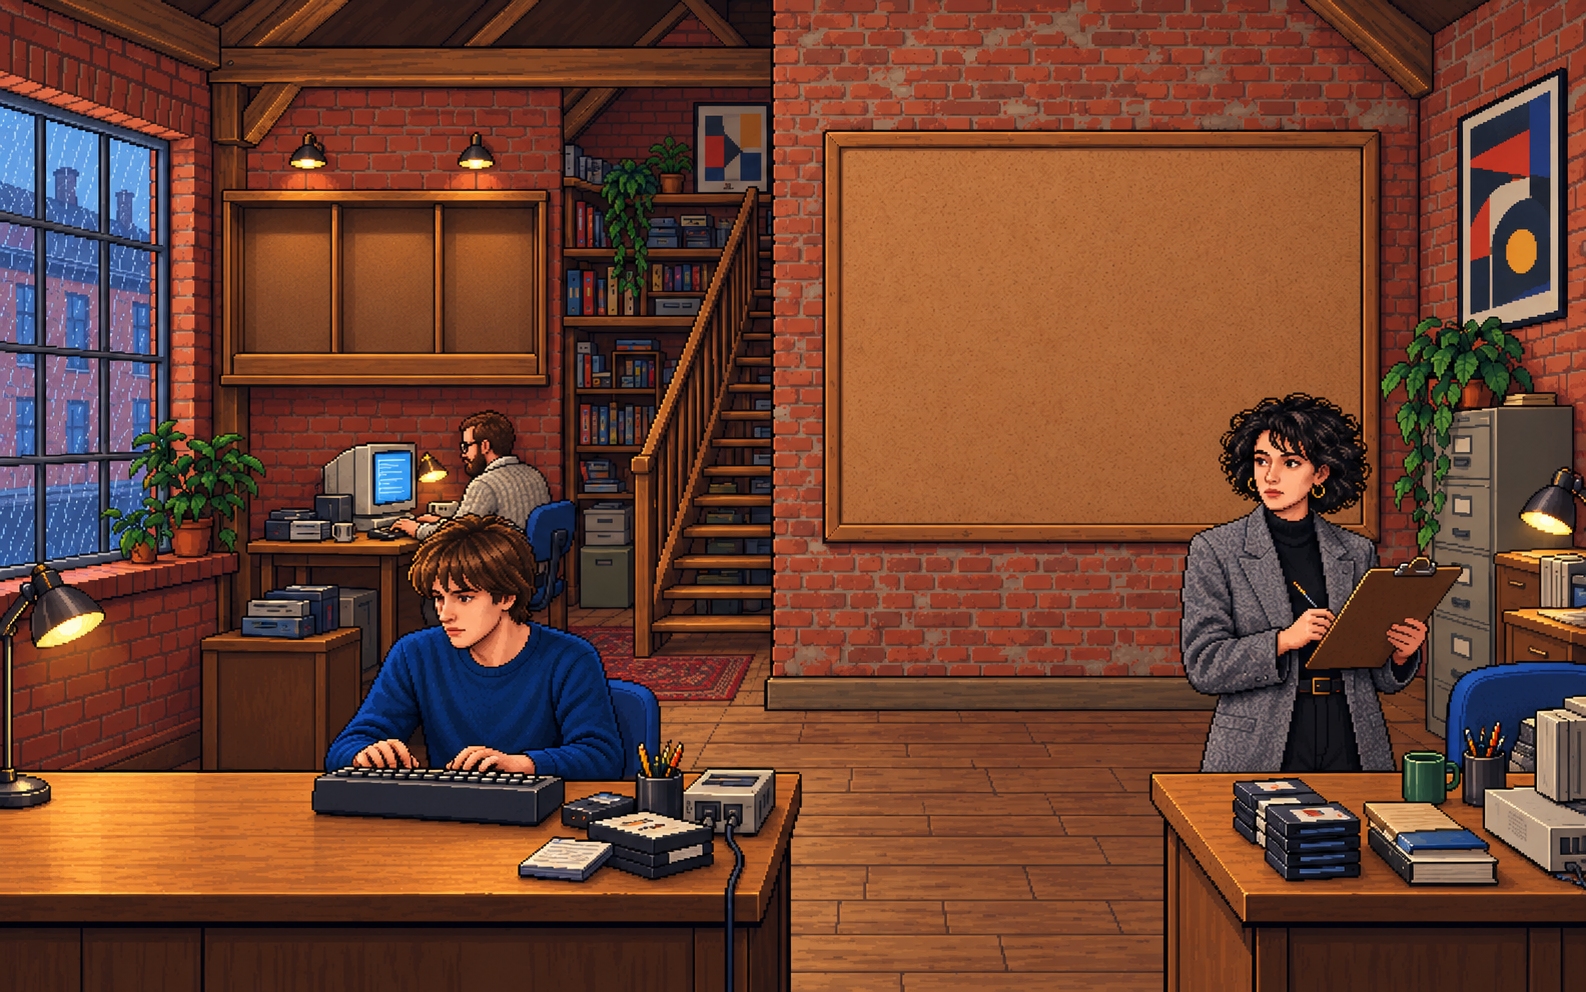
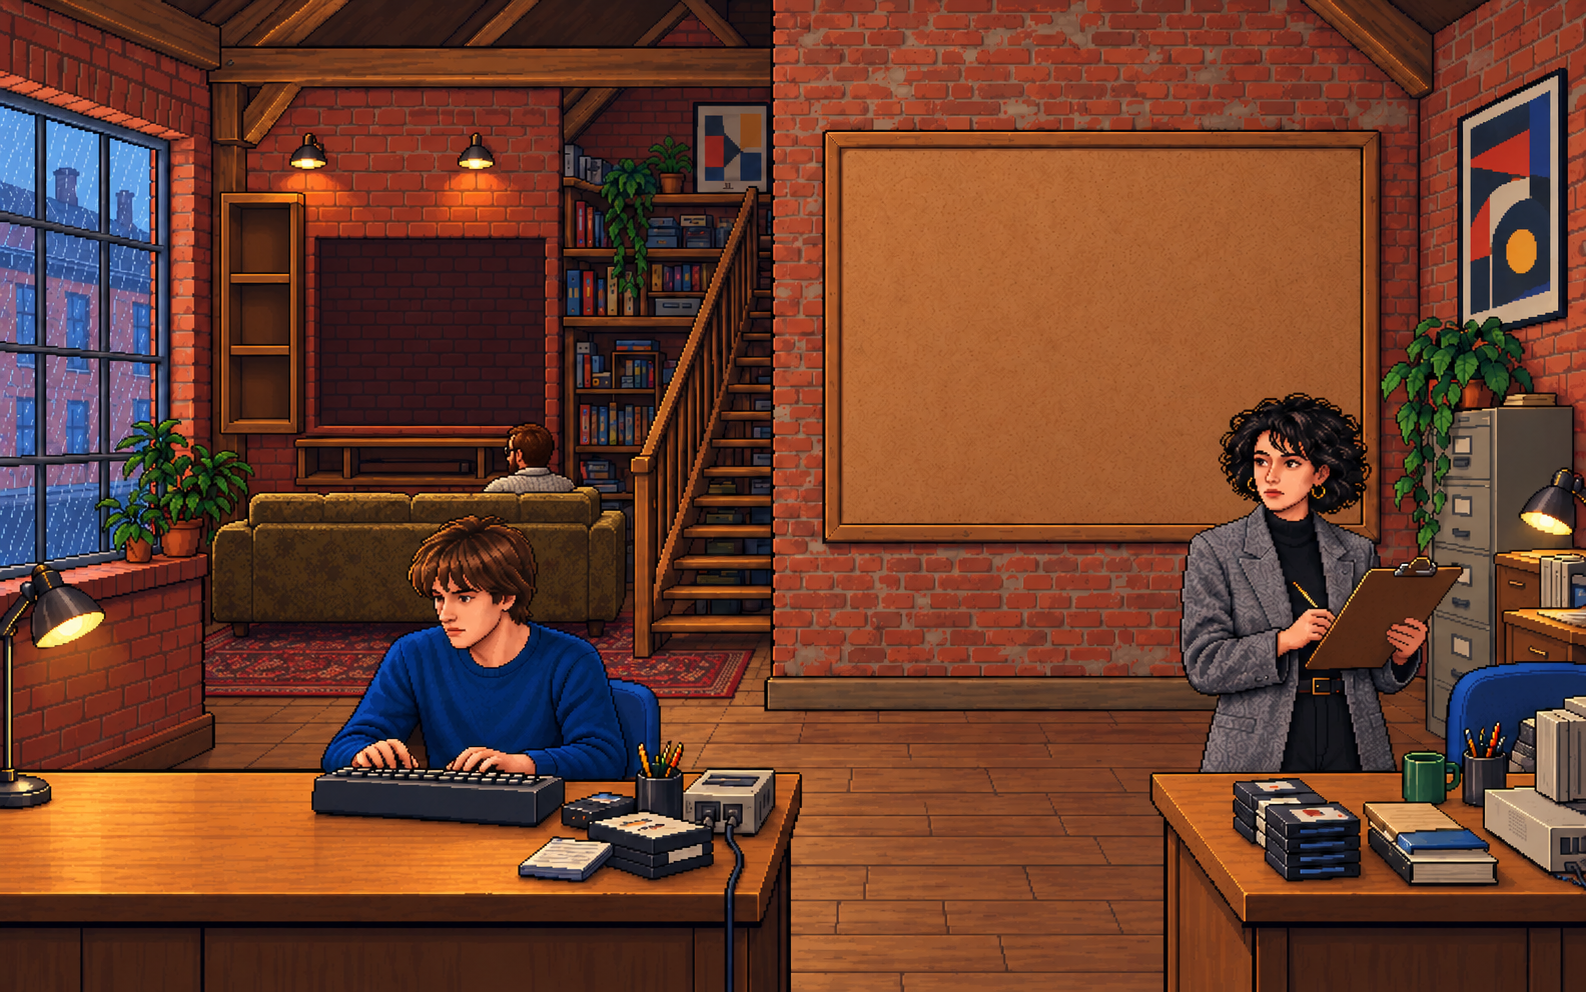
Add rear playtest lounge and native TV player views

diff --git a/studio-features.js b/studio-features.js
@@ -1,10 +1,11 @@
 /* Native-pixel UI extensions. JSSpeccy is a browser prototype, not a SCUMM opcode. */
-const shelfCovers = cassetteLibrary.map(g => {const i=new Image();i.src=g.cover+'?v=room2';i.onload=()=>drawGameViews();return i});
-const roomPreviews=cassetteLibrary.map(g=>{const i=new Image();i.src=g.preview+'?v=room2';i.onload=()=>drawGameViews();return i});
-const percyArt=new Image();percyArt.src='sprites/percy-strip.png?v=room2';
+const shelfCovers = cassetteLibrary.map(g => {const i=new Image();i.src=g.cover+'?v=lounge3';i.onload=()=>drawGameViews();return i});
+const roomPreviews=cassetteLibrary.map(g=>{const i=new Image();i.src=g.preview+'?v=lounge3';i.onload=()=>drawGameViews();return i});
+const percyArt=new Image();percyArt.src='sprites/percy-strip.png?v=lounge3';
 const propSprites={};
-for(const name of ['ledger-closed','ledger-open','cassette-case','cassette-tape','microvitec-cub','microvitec-cub-room']){const i=new Image();i.src='sprites/'+name+'.png?v=room2';i.onload=()=>drawGameViews();propSprites[name]=i}
+for(const name of ['ledger-closed','ledger-open','cassette-case','cassette-tape','microvitec-cub','microvitec-cub-room','playtest-tv','playtest-tv-detail']){const i=new Image();i.src='sprites/'+name+'.png?v=lounge3';i.onload=()=>drawGameViews();propSprites[name]=i}
 function spriteReady(i){return i.complete&&i.naturalWidth}
+let playerHousing='tv';
 let ledgerPage=0, ledgerStale=false, chosenCassette=0, emulator=null, emulatorAPI=null;
 let playerStatus='SELECT A CASSETTE', playerFrames=0, soundEnabled=true, restartArmed=false, loadingToken=0;
 const heldGameKeys=new Map();
@@ -33,11 +34,12 @@ show=function(name){
  drawGameViews();
 };
 function openFeature(name){show(name);featureControls[name].querySelector('button')?.focus()}
-hotspot(document.getElementById('scene'),'cassette-shelf','Look at the cassette shelf',89,78,133,76,()=>openFeature('libraryview'));
+hotspot(document.getElementById('scene'),'cassette-shelf','Look at the cassette shelf',89,78,33,96,()=>openFeature('libraryview'));
 hotspot(document.getElementById('scene'),'accounts-ledger','Open Ken\'s accounts ledger',529,322,64,40,()=>openFeature('ledgerview'));
-hotspot(document.getElementById('scene'),'computer-screen','Look at the game monitor',2,240,128,110,()=>startCassette(chosenCassette));
+hotspot(document.getElementById('scene'),'computer-screen',"Look at Gareth's Cub monitor",5,268,82,70,()=>startCassette(chosenCassette,false,'cub'));
+hotspot(document.getElementById('scene'),'playtest-tv','Look at the playtest television',124,44,176,124,()=>startCassette(chosenCassette,false,'tv'));
 const percyButton=hotspot(document.getElementById('scene'),'percy-cat','Look at Percy the office cat',340,355,35,30,()=>openFeature('percyview'));
-cassetteLibrary.forEach((g,i)=>hotspot(featureControls.libraryview,'cassette-'+g.id,'Play '+g.title,51+i*184,68,164,278,()=>startCassette(i)));
+cassetteLibrary.forEach((g,i)=>hotspot(featureControls.libraryview,'cassette-'+g.id,'Play '+g.title,51+i*184,68,164,278,()=>startCassette(i,false,'tv')));
 hotspot(featureControls.libraryview,'library-back','Go back to office',222,430,196,28,()=>show('scene'));
 hotspot(featureControls.ledgerview,'ledger-prev','Previous ledger page',10,430,150,28,()=>{ledgerPage=(ledgerPage+3)%4;drawGameViews()});
 hotspot(featureControls.ledgerview,'ledger-back','Go back to office',170,430,140,28,()=>show('scene'));
@@ -50,7 +52,8 @@ hotspot(featureControls.playerview,'player-restart','Restart game: click twice t
 hotspot(featureControls.playerview,'player-back','Go back to cassettes',484,430,146,28,()=>openFeature('libraryview'));
 function applySound(){if(!emulator?.isRunning)return;if(soundEnabled){if(!emulator.audioHandler.isActive)emulator.audioHandler.start()}else if(emulator.audioHandler.isActive)emulator.audioHandler.stop()}
 window.alert=message=>{playerStatus='LOAD ERROR - '+String(message).slice(0,65);pauseGame();drawGameViews()};
-async function startCassette(index,force=false){
+async function startCassette(index,force=false,housing=playerHousing){
+ playerHousing=housing;
  const same=chosenCassette===index;chosenCassette=index;restartArmed=false;show('playerview');
  if(same && emulator && !force){emulator.start();applySound();return}
  const token=++loadingToken;pauseGame();emulatorAPI?.exit();emulator=null;emulatorAPI=null;playerFrames=0;playerStatus='LOADING TAPE...';drawGameViews();
@@ -108,9 +111,12 @@ function drawLibrary(c){
 }
 function drawPlayer(c){
  roomBase(c);const g=cassetteLibrary[chosenCassette];
- const monitor=propSprites['microvitec-cub','microvitec-cub-room'];if(spriteReady(monitor))c.drawImage(monitor,10,49,360,304);else rect(c,10,49,360,304,'#242420');
- if(emulator?.canvas)c.drawImage(emulator.canvas,30,79,320,240);else pixelWrap(c,playerStatus,45,180,280,'#c4d69a',1,13);
- pixelText(c,'MICROVITEC CUB / 14-INCH RGB',30,360,'#e0c997');
+ const tv=playerHousing==='tv',screenX=tv?12:30;
+ const monitor=propSprites[tv?'playtest-tv-detail':'microvitec-cub'];
+ if(spriteReady(monitor))c.drawImage(monitor,tv?0:10,49,tv?380:360,304);else rect(c,0,49,380,304,'#242420');
+ document.getElementById('player-picture').style.left=screenX+'px';
+ if(emulator?.canvas)c.drawImage(emulator.canvas,screenX,79,320,240);else pixelWrap(c,playerStatus,45,180,280,'#c4d69a',1,13);
+ pixelText(c,tv?'PLAYTEST LOUNGE / COLOUR TV':'MICROVITEC CUB / 14-INCH RGB',12,360,'#e0c997');
  paper(c,384,44,240,340,'#decda3');pixelWrap(c,g.title,398,59,214,'#40301e',2,19);
  pixelText(c,g.milestone+' / '+g.sha256.slice(0,8),398,106,'#795638');pixelText(c,'KEYBOARD CONTROLS',398,126,'#795638');
  let y=143;g.controls.slice(0,9).forEach(([key,meaning])=>{pixelText(c,key,398,y,'#463522');y=pixelWrap(c,meaning,398,y+10,207,'#79613f',1,10)+5});
@@ -145,18 +151,20 @@ function drawPercy(c){
 const beforeFeatureOffice=drawOffice;
 drawOffice=function(){
  beforeFeatureOffice();const c=officeCanvas.getContext('2d');c.imageSmoothingEnabled=false;
- // Front-facing object sockets measured against the recomposed room.
- cassetteLibrary.forEach((g,i)=>{const x=95+i*43;const shell=propSprites['cassette-case'];if(spriteReady(shell))c.drawImage(shell,2,9,20,29,x,84,36,55);const art=shelfCovers[i];if(spriteReady(art))c.drawImage(art,x+3,91,26,43)});
+ // Rear lounge TV faces the viewer; sofa and seated worker remain below it.
+ cassetteLibrary.forEach((g,i)=>{const y=83+i*30;const shell=propSprites['cassette-case'];if(spriteReady(shell))c.drawImage(shell,2,9,20,29,94,y,23,28);const art=shelfCovers[i];if(spriteReady(art))c.drawImage(art,97,y+3,16,22)});
  const ledger=propSprites[pixelHover?.id==='accounts-ledger'?'ledger-open':'ledger-closed'];if(spriteReady(ledger))c.drawImage(ledger,529,322,64,40);
  const tape=propSprites['cassette-tape'];if(spriteReady(tape))c.drawImage(tape,234,334,56,32);
- const monitor=propSprites['microvitec-cub-room'];if(spriteReady(monitor))c.drawImage(monitor,2,240,128,110);
+ const monitor=propSprites['microvitec-cub-room'];if(spriteReady(monitor))c.drawImage(monitor,5,268,82,70);
+ const television=propSprites['playtest-tv'];if(spriteReady(television))c.drawImage(television,124,44,176,124);
  const preview=emulator?.canvas||roomPreviews[chosenCassette];
- if(preview&&(preview.tagName==='CANVAS'||spriteReady(preview))){
-  const w=preview.width||preview.naturalWidth,h=preview.height||preview.naturalHeight;
-  const scale=Math.min(112/w,84/h),dw=Math.floor(w*scale),dh=Math.floor(h*scale);
-  rect(c,10,252,112,84,'#000');c.drawImage(preview,10+Math.floor((112-dw)/2),252+Math.floor((84-dh)/2),dw,dh);
- }
- pixelText(c,emulator?'LAST GAME FRAME':'KIT SCREENSHOT',8,353,'#e8d1a0');
+ function picture(x,y,w,h){if(preview&&(preview.tagName==='CANVAS'||spriteReady(preview))){
+  const pw=preview.width||preview.naturalWidth,ph=preview.height||preview.naturalHeight;
+  const scale=Math.min(w/pw,h/ph),dw=Math.floor(pw*scale),dh=Math.floor(ph*scale);
+  rect(c,x,y,w,h,'#000');c.drawImage(preview,x+Math.floor((w-dw)/2),y+Math.floor((h-dh)/2),dw,dh);
+ }}
+ picture(134,54,128,96);picture(10,276,72,54);
+ pixelText(c,emulator?'LAST FRAME':'KIT SCREENSHOT',126,164,'#e8d1a0');
  const step=officeMotion?officeTick%140:50;
  const walking=step<25||(step>=70&&step<95),left=step>=70;
  const x=step<25?330+step*2:step<70?378:step<95?378-(step-70)*2:330;

diff --git a/game-closeups.js b/game-closeups.js
@@ -70,7 +70,7 @@ function drawGameViews(){
   if(id==='boardview'){
    pixelText(c,'MILESTONES',289,16,'#3d2c13',1);
    const labels=['DESIGN','ASSETS','BUILD','VERIFY','PLAYTEST','SIGN-OFF','RELEASE','REVIEW'];
-   labels.forEach((t,i)=>{const x=36+i*71;c.fillStyle='#714c2b';c.fillRect(x+69,49,1,245);paper(c,x,49,67,22,'#e4cc97');pixelText(c,t,x+(67-pixelWidth(t))/2,57,'#3c2b1c',1)});
+   labels.forEach((t,i)=>{const x=36+i*71;c.fillStyle='#714c2b';c.fillRect(x+69,49,1,245);paper(c,x,49,67,22,'#e4cc97');i===7?(pixelText(c,'MAGAZINE',x+10,52,'#3c2b1c'),pixelText(c,'REVIEW',x+16,62,'#3c2b1c')):pixelText(c,t,x+(67-pixelWidth(t))/2,57,'#3c2b1c',1)});
    let counts={};games.forEach((g,index)=>{const n=counts[g.stage]||0;counts[g.stage]=n+1;const x=36+g.stage*71,y=84+n*92;
     paper(c,x,y,65,82,({mm:'#eab989',ag:'#bfd1b9',tg:'#d8d59e'})[g.style]);pin(c,x+28,y+2);
     let next=pixelWrap(c,g.name,x+5,y+13,56,'#342b1d',1,10);
@@ -78,7 +78,9 @@ function drawGameViews(){
     pixelWrap(c,g.health,x+5,next+26,56,'#514129',1,10);
    });
    pixelText(c,'REVIEW',49,322,'#63462b',1);pixelText(c,'AIM >90%',49,333,'#63462b',1);
-   pixelText(c,'3 GAMES',518,328,'#63462b',1);
+   pixelText(c,'RELEASE: GAME + MEDIA KIT',160,322,'#63462b');
+   pixelText(c,'THEN INDEPENDENT MAGAZINE REVIEW',160,335,'#63462b');
+   pixelText(c,'SAMPLE BOARD',476,328,'#63462b',1);
    gameFooter(c,false);
   }else{
    const g=games[selected];
@@ -104,7 +106,7 @@ closeArt.onload=drawGameViews;drawGameViews();
 
 // Office and controls use the same native bitmap renderer as the close-ups.
 const officeCanvas=document.createElement('canvas');officeCanvas.width=640;officeCanvas.height=480;officeCanvas.setAttribute('aria-hidden','true');document.getElementById('scene').prepend(officeCanvas);
-const officeArt=new Image();officeArt.src='production-office-art.png?v=room2';
+const officeArt=new Image();officeArt.src='production-office-art.png?v=lounge3';
 function drawOffice(){
  const c=officeCanvas.getContext('2d');c.imageSmoothingEnabled=false;c.fillStyle='#211912';c.fillRect(0,0,640,480);
  if(officeArt.complete&&officeArt.naturalWidth)c.drawImage(officeArt,0,0,640,400);

diff --git a/index.html b/index.html
@@ -7,7 +7,7 @@
 *{box-sizing:border-box}html,body{margin:0;background:#12100e;color:#e8d7ad;font-family:monospace}body{min-height:100vh;display:grid;place-items:center}
 button,a{font:inherit}button{cursor:pointer}button:focus-visible,a:focus-visible{outline:2px solid #fff1a0;outline-offset:2px}
 #screen{position:relative;width:640px;height:480px;overflow:hidden;background:#211912;transform-origin:center;image-rendering:pixelated}
-.room{position:absolute;inset:0 0 80px;background:url('production-office-art.png?v=room2') center/640px 400px no-repeat}
+.room{position:absolute;inset:0 0 80px;background:url('production-office-art.png?v=lounge3') center/640px 400px no-repeat}
 #wall{position:absolute;left:339px;top:62px;width:208px;height:150px;border:0;padding:0;background:transparent;color:#36251b;text-align:left}
 #wall:hover{outline:1px solid #ffe8a5;box-shadow:0 0 9px #ffc66a55}
 .walltitle{position:absolute;top:0;left:0;right:0;height:17px;text-align:center;font:bold 8px Georgia,serif;letter-spacing:.2px;background:#e8d2a8;border-bottom:2px solid #725033;padding-top:3px}
@@ -135,9 +135,9 @@ document.addEventListener('keydown',e=>{if(e.key==='Escape'){if(view==='ticketvi
 const params=new URLSearchParams(location.search);if(params.get('stage')==='gate')update();render();if(params.get('view')==='board')show('boardview');if(params.get('view')==='ticket')openTicket(0);
 function fit(){const available=Math.min(innerWidth/640,innerHeight/480);const s=available>=1?Math.floor(available):available;document.getElementById('screen').style.transform='scale('+s+')'}addEventListener('resize',fit);fit();
 </script>
-<script src="game-closeups.js?v=room2"></script>
-<script src="office-animation.js?v=room2"></script>
-<script src="library-data.js?v=room2"></script>
+<script src="game-closeups.js?v=lounge3"></script>
+<script src="office-animation.js?v=lounge3"></script>
+<script src="library-data.js?v=lounge3"></script>
 <script src="jsspeccy/jsspeccy.js"></script>
-<script src="studio-features.js?v=room2"></script>
+<script src="studio-features.js?v=lounge3"></script>
 </html>

diff --git a/office-animation.js b/office-animation.js
@@ -43,9 +43,9 @@ drawOffice = function() {
  if(officeMotion && gestureReady) {
   // Interior hand clusters move one native pixel; wrists and keyboard stay fixed.
   const tap = officeTick % 6;
-  if(tap === 1 || tap === 4) c.drawImage(gestureSource, 147, 302, 11, 5, 147, 303, 11, 5);
-  if(tap === 2 || tap === 5) c.drawImage(gestureSource, 193, 306, 10, 4, 193, 305, 10, 4);
-  if(officeTick % 8 === 2) c.drawImage(gestureSource, 162, 212, 7, 3, 162, 213, 7, 3);
+  if(officeTick % 60 < 18 && (tap === 1 || tap === 4)) c.drawImage(gestureSource, 147, 302, 11, 5, 147, 303, 11, 5);
+  if(officeTick % 60 < 18 && (tap === 2 || tap === 5)) c.drawImage(gestureSource, 193, 306, 10, 4, 193, 305, 10, 4);
+  // Rear playtester watches the television; no typing gesture at the old desk.
   // Brief, staggered eyelids over the painted eyes.
   if(officeTick % 37 === 0) { c.fillStyle='#be8060'; c.fillRect(178,240,3,1); c.fillRect(188,241,3,1); }
   if(officeTick % 43 === 12) { c.fillStyle='#cc9473'; c.fillRect(506,189,3,1); c.fillRect(516,189,3,1); }

diff --git a/README.md b/README.md
@@ -2,14 +2,14 @@
 
 [Play the public demo](https://danielvaughan.com/dalex-studio-mockup/)
 
-A native 640 × 480 adventure-style interface for a 1987 Manchester games studio. The room is composed around a front-facing Microvitec Cub monitor and a cassette-art cabinet, so real game frames and cover art sit naturally in the scene.
+A native 640 × 480 adventure-style interface for a 1987 Manchester games studio. The room is composed around a rear playtest lounge with a front-facing domestic TV, low sofa, separate Microvitec Cub workstation and cassette-art cabinet, so real game frames and cover art sit naturally in the scene.
 
 - Click the cassette shelf at the back left, then a cassette cover to play its Spectrum game.
 - Archived media-kit builds: Mower Mayhem M6, Antigravity M4, Tiger Gorilla M4. Artwork and tapes come from matching kits; tape SHA-256 is checked before loading.
 - Click the game picture for keyboard input. Controls appear beside the screen. For Tiger Gorilla select 2 (keyboard), then Space. Wait for the game's title screen before starting.
 - Pause, sound, restart (two clicks) and Back are pixel controls. Escape returns to the library. Leaving or switching tabs pauses emulation and releases keys. Reopening the same cassette resumes it.
-- Click the front-facing Cub monitor to reopen the selected game. Its 112 × 84 room screen shows a matching media-kit screenshot before play and retains the last game frame afterwards. Labels distinguish the two.
-- Click Ken's leather ledger on the left desk for four accounts pages. These figures are **sample API estimates**, not private accounts or actual bills. STALE demonstrates an outage.
+- Click the rear TV to play with the lounge surround, or click the front-facing Cub monitor to reopen the selected game. The rear television and smaller desk monitor show a matching media-kit screenshot before play and retain the last game frame afterwards. Labels distinguish the two.
+- Click Ken's leather ledger on the right desk for four accounts pages. These figures are **sample API estimates**, not private accounts or actual bills. STALE demonstrates an outage.
 - Click Percy for his character detail. His new native sprites follow the owner's photographic reference.
 - Click the production board, then a card. Demo Update moves a sample milestone between Playtest and Sign-off. The eight stages end in Release and independent Magazine review.
 - Pause Motion / Play Motion or A toggles ambient animation; A belongs to the Spectrum game during play.
@@ -17,7 +17,7 @@ A native 640 × 480 adventure-style interface for a 1987 Manchester games studio
 ## Native assets
 
 All visible text and controls render into a 640 × 480 canvas using bitmap glyphs.
-The complete bordered JSSpeccy picture is 320 × 240, shown without cropping inside a Microvitec Cub 14-inch RGB monitor sprite (360 × 304).
+The complete bordered JSSpeccy picture is 320 × 240, shown without cropping inside either a domestic TV sprite (380 × 304) or Microvitec Cub 14-inch RGB monitor sprite (360 × 304).
 Percy's cells are 60 × 48; ledger states 64 × 40; cassette cases 24 × 40; loose tape 56 × 32.
 See `sprites/manifest.json` for sizes and palette limits, and `library/manifest.json` for game/art provenance.
 Generated scenery remains concept art; this is not a compiled ScummVM game or a verified indexed room palette.
